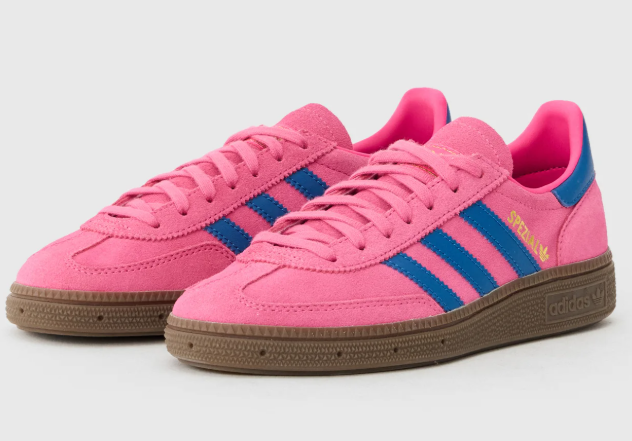
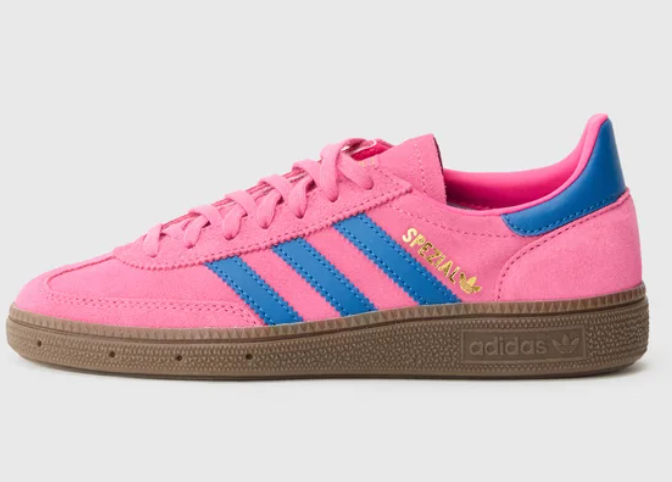
1

diff --git a/index.html b/index.html
@@ -24,15 +24,22 @@
                 <li><a href="#"></a>About us</li>
                 <li><a href="#"></a>Contact</li>
                 <li><a href="#"></a>More <i class="fa-solid fa-angle-down"></i></li>
-                <div class="bascet">
-                    <p>1</p>
-                    <div><img src="./bilder/bascet-img.jpg" alt=""></div>
-                </div>
                 <div class="close"><i class="fa-solid fa-x"></i></div>
             </ul>
             <div class="burger"><i class="fa-solid fa-bars"></i></div>
         </div>
     </nav>
+
+    <div class="container">
+        <div class="basket">
+            <div><img src="./bilder/bascet-img.jpg" alt=""></div>
+            <div>
+                <p>1</p>
+                <button class="btn">Empty</button>
+                <button class="btn">Check</button>
+            </div>
+        </div>
+    </div>
 
     <div class="banner">
         <div>
@@ -49,64 +56,88 @@
     <section>
         <div class="container">
             <div class="grid-container">
-                <div class="shoe-text-box"><img class="shoe-img" src="./bilder/pink-shoes.png" alt="">
-                    <img class="shoe-img2" src="./bilder/pink-shoes2.png" alt="">
+                <div class="shoe-text-box">
+                    <div class="img-container">
+                        <img class="shoe-img" src="./bilder/pink-shoes.png" alt="">
+                        <img class="shoe-img2" src="./bilder/pink-shoes2.png" alt="">
+                    </div>
                     <div class="info-text">
                         <p><b>HANDBALL SPEZIAL</b>
                         <p></p>semi pink spark</p>
                         <button class="shop-btn">Shop now</button>
                     </div>
                 </div>
-                <div class="shoe-text-box"><img class="shoe-img" src="./bilder/orange-shoes.png" alt="">
-                    <img class="shoe-img2" src="./bilder/orange-shoes2.png" alt="">
+                <div class="shoe-text-box">
+                    <div class="img-container">
+                        <img class="shoe-img" src="./bilder/orange-shoes.png" alt="">
+                        <img class="shoe-img2" src="./bilder/orange-shoes2.png" alt="">
+                    </div>
                     <div class="info-text">
                         <p><b>HANDBALL SPEZIAL</b>
                         <p></p>collegiate orange</p>
                         <button class="shop-btn">Shop now</button>
                     </div>
                 </div>
-                <div class="shoe-text-box"><img class="shoe-img" src="./bilder/green-shoes.png" alt="">
-                    <img class="shoe-img2" src="./bilder/green-shoes2.png" alt="">
+                <div class="shoe-text-box">
+                    <div class="img-container">
+                        <img class="shoe-img" src="./bilder/green-shoes.png" alt="">
+                        <img class="shoe-img2" src="./bilder/green-shoes2.png" alt="">
+                    </div>
                     <div class="info-text">
                         <p><b>HANDBALL SPEZIAL</b>
                         <p></p>clay</p>
                         <button class="shop-btn">Shop now</button>
                     </div>
                 </div>
-                <div class="shoe-text-box"><img class="shoe-img" src="./bilder/pink-blue-shoes.png" alt="">
-                    <img class="shoe-img2" src="./bilder/pink-blue-shoes2.png" alt="">
+                <div class="shoe-text-box">
+                    <div class="img-container">
+                        <img class="shoe-img" src="./bilder/pink-blue-shoes.png" alt="">
+                        <img class="shoe-img2" src="./bilder/pink-blue-shoes2.png" alt="">
+                    </div>
                     <div class="info-text">
                         <p><b>HANDBALL SPEZIAL</b>
                         <p></p>shock pink</p>
                         <button class="shop-btn">Shop now</button>
                     </div>
                 </div>
-                <div class="shoe-text-box"><img class="shoe-img" src="./bilder/blue-pink-shoes.png" alt="">
-                    <img class="shoe-img2" src="./bilder/blue-pink-shoes2.png" alt="">
+                <div class="shoe-text-box">
+                    <div class="img-container">
+                        <img class="shoe-img" src="./bilder/blue-pink-shoes.png" alt="">
+                        <img class="shoe-img2" src="./bilder/blue-pink-shoes2.png" alt="">
+                    </div>
                     <div class="info-text">
                         <p><b>HANDBALL SPEZIAL</b>
                         <p></p>night indigo</p>
                         <button class="shop-btn">Shop now</button>
                     </div>
                 </div>
-                <div class="shoe-text-box"><img class="shoe-img" src="./bilder/darkblue-pink-shoes.png" alt="">
-                    <img class="shoe-img2" src="./bilder/darkblue-pink-shoes2.png" alt="">
+                <div class="shoe-text-box">
+                    <div class="img-container">
+                        <img class="shoe-img" src="./bilder/darkblue-pink-shoes.png" alt="">
+                        <img class="shoe-img2" src="./bilder/darkblue-pink-shoes2.png" alt="">
+                    </div>
                     <div class="info-text">
                         <p><b>HANDBALL SPEZIAL</b>
                         <p></p>collegiate purple</p>
                         <button class="shop-btn">Shop now</button>
                     </div>
                 </div>
-                <div class="shoe-text-box"><img class="shoe-img" src="./bilder/green-blue-shoes.png" alt="">
-                    <img class="shoe-img2" src="./bilder/green-blue-shoes2.png" alt="">
+                <div class="shoe-text-box">
+                    <div class="img-container">
+                        <img class="shoe-img" src="./bilder/green-blue-shoes.png" alt="">
+                        <img class="shoe-img2" src="./bilder/green-blue-shoes2.png" alt="">
+                    </div>
                     <div class="info-text">
                         <p><b>HANDBALL SPEZIAL</b>
                         <p></p>lucid blue</p>
                         <button class="shop-btn">Shop now</button>
                     </div>
                 </div>
-                <div class="shoe-text-box"><img class="shoe-img" src="./bilder/burgunder-shoes.png" alt="">
-                    <img class="shoe-img2" src="./bilder/burgunder-shoes2.png" alt="">
+                <div class="shoe-text-box">
+                    <div class="img-container">
+                        <img class="shoe-img" src="./bilder/burgunder-shoes.png" alt="">
+                        <img class="shoe-img2" src="./bilder/burgunder-shoes2.png" alt="">
+                    </div>
                     <div class="info-text">
                         <p><b>HANDBALL SPEZIAL</b>
                         <p></p>maroon</p>

diff --git a/style.css b/style.css
@@ -14,6 +14,10 @@ p {
     font-size: 18px;
 }
 
+body {
+    position: relative;
+}
+
 /* NAV */
 
 nav img {
@@ -61,31 +65,54 @@ nav li:hover {
     cursor: pointer;
 }
 
-.bascet img {
+/* BASKET */
+
+.basket img {
     width: 100px;
 }
 
-.bascet p {
+.basket p {
     color: white;
     background-color: rgba(244, 124, 144, 0.685);
     padding: 10px;
-    border-radius: 15px;
+    border-radius: 40px;
+    text-align: center;
+    margin: 0 auto;
+    width: 80px;
 }
 
-.bascet {
+.basket {
     background-color: white;
     padding: 10px;
     border-radius: 15px;
     display: flex;
     align-items: center;
+    box-shadow: 0 4px 12px rgba(0, 0, 0, 0.5);
+    width: fit-content;
+    z-index: 2;
 
-    position: absolute;
-    right: 5px;
+    position: fixed;
+    right: 10px;
+    bottom: 10px;
     opacity: 0;
 }
 
-.bascet.active {
+.basket.active {
     opacity: 1;
+}
+
+.basket .btn {
+    padding: 3px 7px;
+    border-radius: 10px;
+    background-color: rgba(244, 124, 144, 0.685);
+    color: white;
+    border: none;
+    margin-top: 20px;
+}
+
+.basket .btn:hover {
+    scale: 1.1;
+    transition: 300ms;
 }
 
 /* BANNER */
@@ -136,6 +163,7 @@ section {
     display: grid;
     grid-template-columns: 1fr 1fr 1fr 1fr;
     padding: 20px 0px;
+    width: fit-content;
 }
 
 .grid-container img {
@@ -156,19 +184,19 @@ section {
     margin: 10px;
     padding-bottom: 40px;
     cursor: pointer;
-    box-shadow: 0 4px 12px rgba(0,0,0,0.1);
+    box-shadow: 0 4px 12px rgba(0, 0, 0, 0.1);
 }
 
 .shoe-img2 {
     display: none;
 }
 
-.shoe-img.active {
-    display: none;
+.img-container.active .shoe-img2 {
+    display: block;
 }
 
-.shoe-img2.active {
-    display: block;
+.img-container.active .shoe-img {
+    display: none;
 }
 
 .info-text {
@@ -274,18 +302,22 @@ footer p {
     /* BANNER */
 
     .banner h1 {
+        position: absolute;
+        left: 20px;
         letter-spacing: 3px;
         line-height: 100px;
     }
 
-    .banner .h1-3 {
-        padding: 0px 30px;
+    /* SECTION */
+    section .container {
+        display: flex;
+        justify-content: center;
     }
 
     /* GRID/CONTAINER */
     .grid-container {
         display: grid;
-        grid-template-columns: 1fr 1fr;
+        grid-template-columns: 1fr;
         padding: 20px 0px;
     }
 

diff --git a/script.js b/script.js
@@ -14,25 +14,26 @@ closeEl.addEventListener("click", function () {
     closeEl.classList.toggle("active")
 })
 
-const shoeImgEl = document.querySelector(".shoe-img")
-const shoeImg2El = document.querySelector(".shoe-img2")
-
-shoeImgEl.addEventListener("mouseover", function () {
-    shoeImgEl.classList.toggle("active")
-    shoeImg2El.classList.toggle("active")
-})
-
-shoeImg2El.addEventListener("mouseout", function () {
-    shoeImgEl.classList.toggle("active")
-    shoeImg2El.classList.toggle("active")
-})
-
 const shopBtnEls = document.querySelectorAll(".shop-btn")
-const bascetEl = document.querySelector(".bascet")
+const basketEl = document.querySelector(".basket")
 
 for (const shopBtnEl of shopBtnEls) {
     shopBtnEl.addEventListener("click", function () {
-        bascetEl.classList.add("active")
+        basketEl.classList.add("active")
     })
 
+}
+
+const shoeImgEls = document.querySelectorAll(".shoe-img")
+const shoeImg2Els = document.querySelectorAll(".shoe-img2")
+const imgContainerEls = document.querySelectorAll(".img-container")
+
+for (const imgContainerEl of imgContainerEls) {
+    imgContainerEl.addEventListener("mouseover", function () {
+        imgContainerEl.classList.toggle("active")
+    })
+
+    imgContainerEl.addEventListener("mouseout", function () {
+        imgContainerEl.classList.toggle("active")
+    })
 }